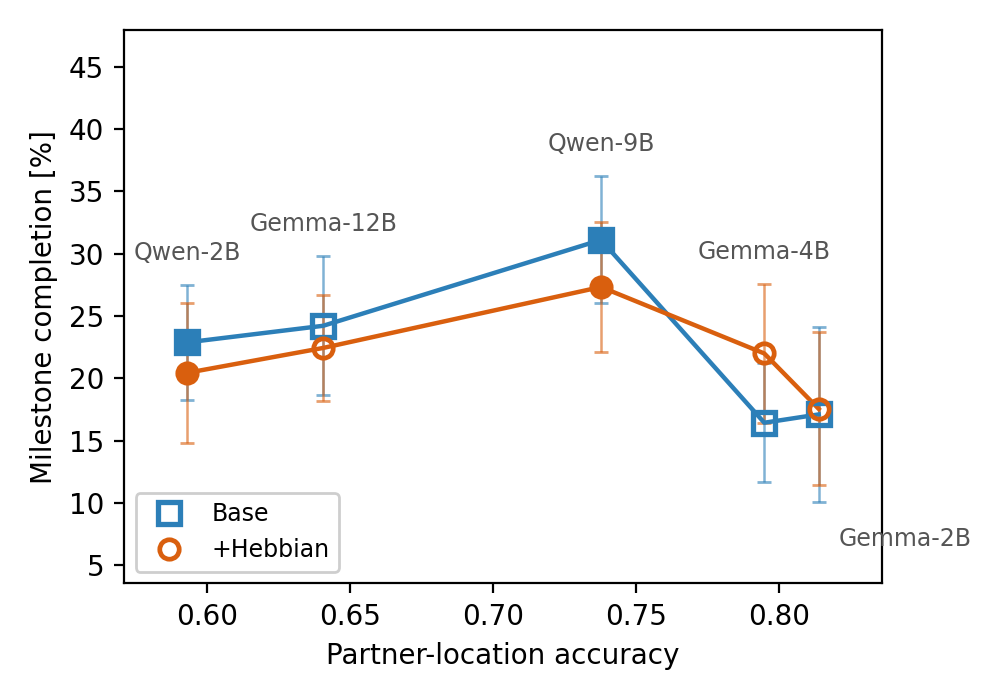
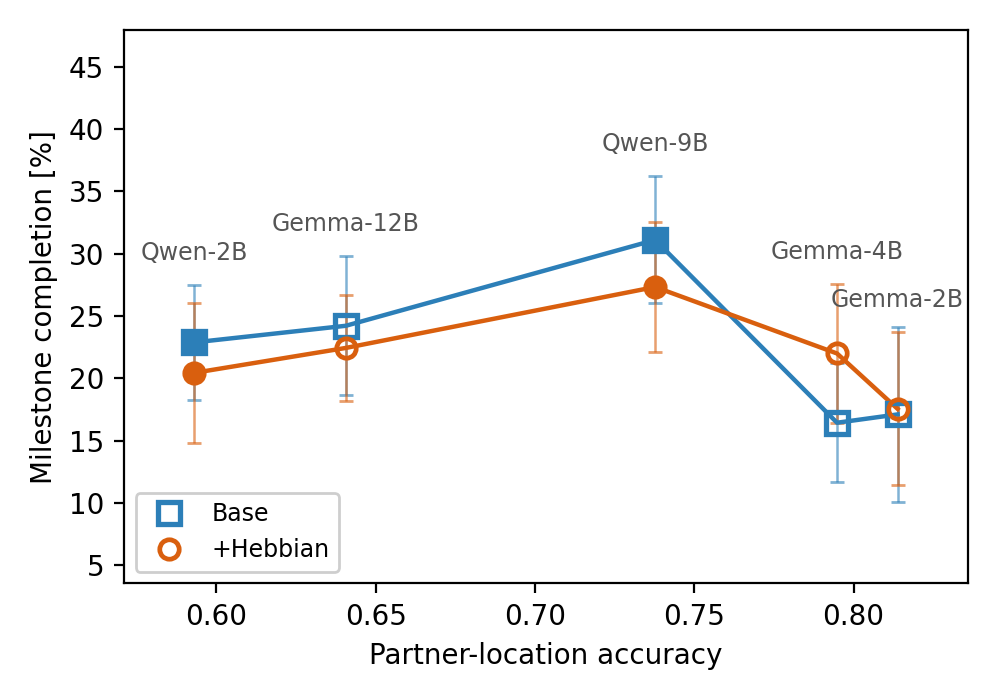
Paper pareto figures: label crowd rule considers x AND y proximity

diff --git a/scripts/make_pareto_perception_fig.py b/scripts/make_pareto_perception_fig.py
@@ -118,22 +118,30 @@ def draw(rows, out_png: Path, xlabel: str, errorbars: str = "none",
                     mec=st["color"], mew=st["mew"], zorder=3)
         all_y += [p[1] for p in pts]
 
-    # Point labels: one per model above its higher arm; when a model sits
-    # within 10 % of the x-span of its left neighbour the label flips to
-    # below-right of the LOWER arm (the social figure's crowd rule).
+    # Point labels: one per model above its higher arm. A label flips to
+    # below-right of the LOWER arm (the social figure's crowd rule) when the
+    # previous ABOVE-label is close in BOTH x (< 12 % of the span) and y
+    # (< 10 % of the label-anchor range) -- two labels only collide when
+    # near in both.
     order = sorted(rows, key=lambda s: rows[s]["x"][0])
-    xs_all = [rows[s]["x"][0] for s in order]
-    span = (max(xs_all) - min(xs_all)) or 1.0
-    prev_x = None
-    for size in order:
-        r = rows[size]
-        xv = r["x"][0]                  # both arms share the model's pooled x
+    e = 1.0 if errorbars != "none" else 0.0
+    anchors = {}
+    for size, r in rows.items():
         hi_arm = max(("base", "hebbian"), key=lambda a: r[a]["y"][0])
         lo_arm = min(("base", "hebbian"), key=lambda a: r[a]["y"][0])
-        e = 1.0 if errorbars != "none" else 0.0
-        y_hi = r[hi_arm]["y"][0] + e * r[hi_arm]["y"][1]
-        y_lo = r[lo_arm]["y"][0] - e * r[lo_arm]["y"][1]
-        crowded = prev_x is not None and (xv - prev_x) < 0.10 * span
+        anchors[size] = (r["x"][0],
+                         r[hi_arm]["y"][0] + e * r[hi_arm]["y"][1],
+                         r[lo_arm]["y"][0] - e * r[lo_arm]["y"][1])
+    span = (max(a[0] for a in anchors.values())
+            - min(a[0] for a in anchors.values())) or 1.0
+    yr = (max(a[1] for a in anchors.values())
+          - min(a[2] for a in anchors.values())) or 1.0
+    prev_above = None
+    for size in order:
+        xv, y_hi, y_lo = anchors[size]
+        crowded = (prev_above is not None
+                   and (xv - prev_above[0]) < 0.12 * span
+                   and abs(y_hi - prev_above[1]) < 0.10 * yr)
         if size in label_below:
             # The leftmost model's label would sit on the segment climbing
             # to its right neighbour; hang it under the lower arm instead.
@@ -151,7 +159,7 @@ def draw(rows, out_png: Path, xlabel: str, errorbars: str = "none",
                         (xv, y_hi),
                         textcoords="offset points", xytext=(0, 9),
                         ha="center", fontsize=8.5, color="#555555", zorder=4)
-        prev_x = xv
+            prev_above = (xv, y_hi)
 
     lo, hi = min(all_y), max(all_y)
     pad = max(0.02 * (abs(hi) or 1.0), 0.25 * (hi - lo))
